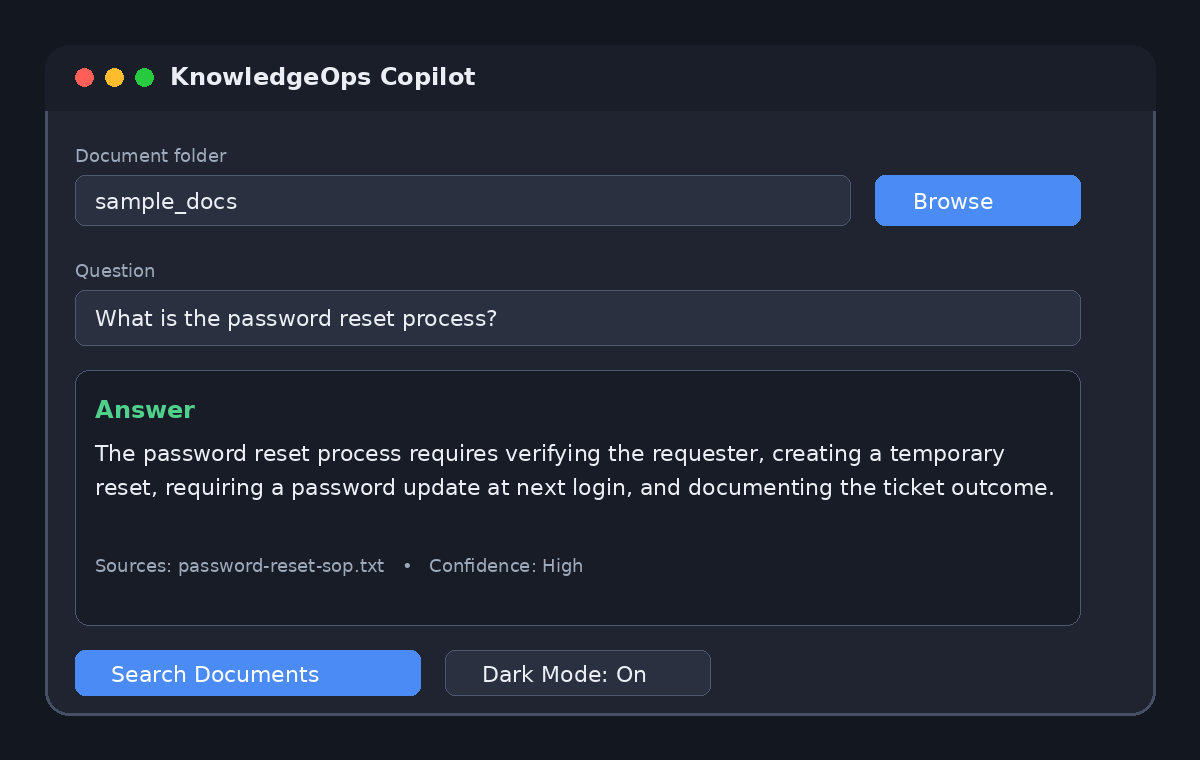
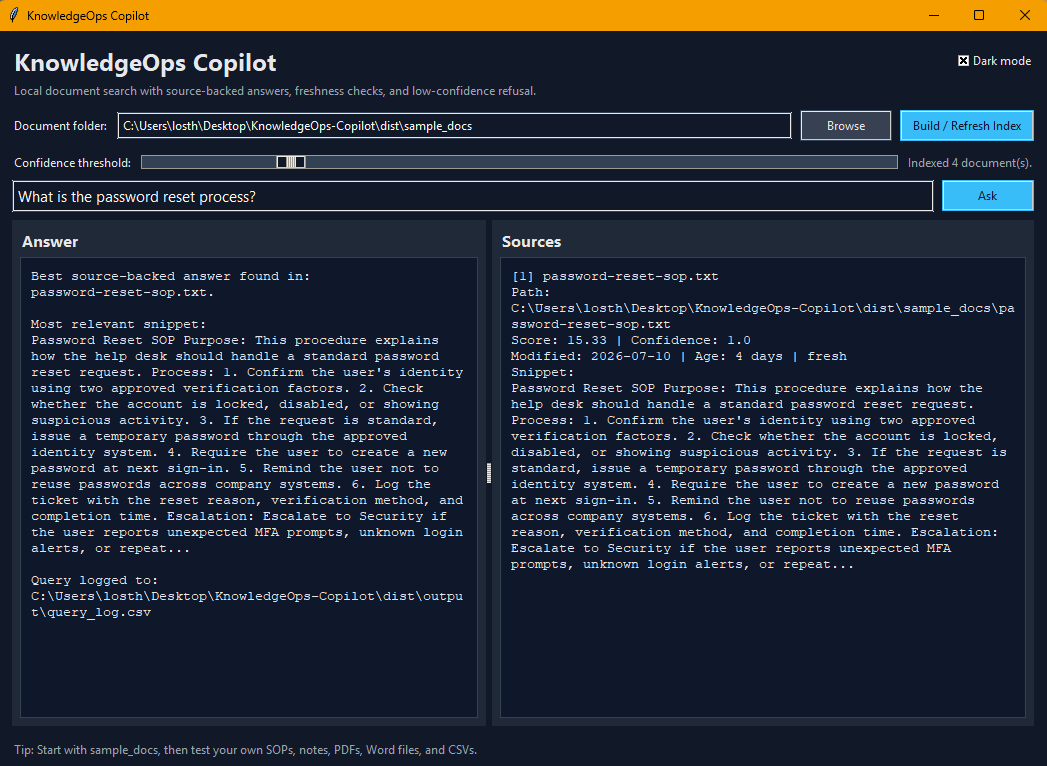
Update portfolio site

diff --git a/assets/main.scss b/assets/main.scss
@@ -476,3 +476,69 @@ hr {
     letter-spacing: -0.045em;
   }
 }
+
+
+/* FINAL USER REQUEST OVERRIDES - SIMPLIFIED HEADER SIDEBAR HOME FEED */
+
+/* Hide any remaining top GitHub/header action buttons. */
+.site-header .github-button,
+.site-header .header-button,
+.site-header .top-button,
+.site-header .site-button,
+.site-header .primary-action,
+.header-actions {
+  display: none !important;
+}
+
+/* Make homepage project posts larger and more clickable. */
+.project-feed-item {
+  background: rgba(15, 23, 42, 0.86);
+  border: 1px solid rgba(148, 163, 184, 0.24);
+  border-radius: 20px;
+  padding: 1.85rem 2rem;
+  margin-bottom: 1.45rem;
+  box-shadow: 0 18px 45px rgba(0, 0, 0, 0.22);
+}
+
+.project-feed-item:first-of-type {
+  padding-top: 1.85rem;
+}
+
+.project-feed-title {
+  display: inline-block;
+  color: #f8fafc;
+  font-size: clamp(1.65rem, 2.4vw, 2.2rem);
+  font-weight: 850;
+  line-height: 1.16;
+  letter-spacing: -0.035em;
+  text-decoration: none;
+}
+
+.project-feed-title:hover {
+  color: #93c5fd;
+  text-decoration: underline;
+}
+
+.project-feed-item p {
+  color: #cbd5e1;
+  font-size: 1.08rem;
+  line-height: 1.75;
+  margin: 0.75rem 0 0.8rem;
+  max-width: 70ch;
+}
+
+.project-feed-link {
+  color: #93c5fd;
+  display: inline-block;
+  font-weight: 700;
+  text-decoration: none;
+  margin-top: 0.2rem;
+}
+
+.project-feed-link:hover {
+  text-decoration: underline;
+}
+
+.sidebar-links a:first-child {
+  font-weight: 850;
+}

diff --git a/_layouts/default.html b/_layouts/default.html
@@ -14,8 +14,7 @@
         <p class="site-kicker">Applied AI Portfolio</p>
         <a class="site-title-custom" rel="author" href="{{ '/' | relative_url }}">{{ site.title | escape }}</a>
         <p class="site-description">{{ site.description | escape }}</p>
-        <a class="header-github-link" href="https://github.com/spitnik11">GitHub</a>
-      </div>
+</div>
     </header>
 
     <div class="site-frame layout-shell">
@@ -32,6 +31,7 @@
             project documentation, and practical automation.
           </p>
           <div class="sidebar-links">
+          <a href="{{ '/' | relative_url }}">Home</a>
             <a href="https://github.com/spitnik11">GitHub</a>
             <a href="https://www.linkedin.com/in/gabriel-pina-498023113">LinkedIn</a>
             <a href="{{ '/about/' | relative_url }}">About me</a>

diff --git a/CHANGELOG_LATEST_UPDATE.md b/CHANGELOG_LATEST_UPDATE.md
@@ -1,0 +1,21 @@
+# Latest Site Update
+
+This full site zip includes the requested layout changes:
+
+- Removed top GitHub button.
+- Added Home at the top of the sidebar.
+- Sidebar GitHub link points to `https://github.com/spitnik11`.
+- Removed the featured project sidebar.
+- Removed `projects.md` and `blog.md`.
+- Enlarged homepage project cards.
+- Replaced screenshot asset with `assets/images/knowledgeops-demo.png`.
+
+After replacing your local site folder, push with:
+
+```powershell
+cd "$env:USERPROFILE\Desktop\spitnik11.github.io"
+git add -A
+git commit -m "Simplify header sidebar and update screenshot"
+git pull origin main --rebase
+git push
+```

diff --git a/README.md b/README.md
@@ -73,3 +73,14 @@ Example:
 ```
 
 Every post should include a `description:` field because the homepage uses it as the short teaser under the project title.
+
+
+## Latest requested changes
+
+- Removed the GitHub button from the top header.
+- Added Home as the first link in the sidebar.
+- Replaced project-specific GitHub links with a simple GitHub profile link.
+- Removed Projects and Blog pages.
+- Removed the featured project sidebar.
+- Made homepage post cards larger.
+- Replaced the KnowledgeOps screenshot with `assets/images/knowledgeops-demo.png`.

diff --git a/_posts/2026-07-10-knowledgeops-copilot.md b/_posts/2026-07-10-knowledgeops-copilot.md
@@ -19,7 +19,7 @@ KnowledgeOps Copilot is the first project in my applied AI portfolio. It shows h
 
 KnowledgeOps Copilot is a local Python desktop app that helps a user search a folder of documents and receive source-backed answers. The goal is not to replace human judgment. The goal is to make scattered knowledge easier to find, review, and explain.
 
-Repository: [github.com/spitnik11/knowledgeops-copilot](https://github.com/spitnik11/knowledgeops-copilot)
+Repository: [github.com/spitnik11/knowledgeops-copilot](https://github.com/spitnik11)
 
 ## The business problem
 